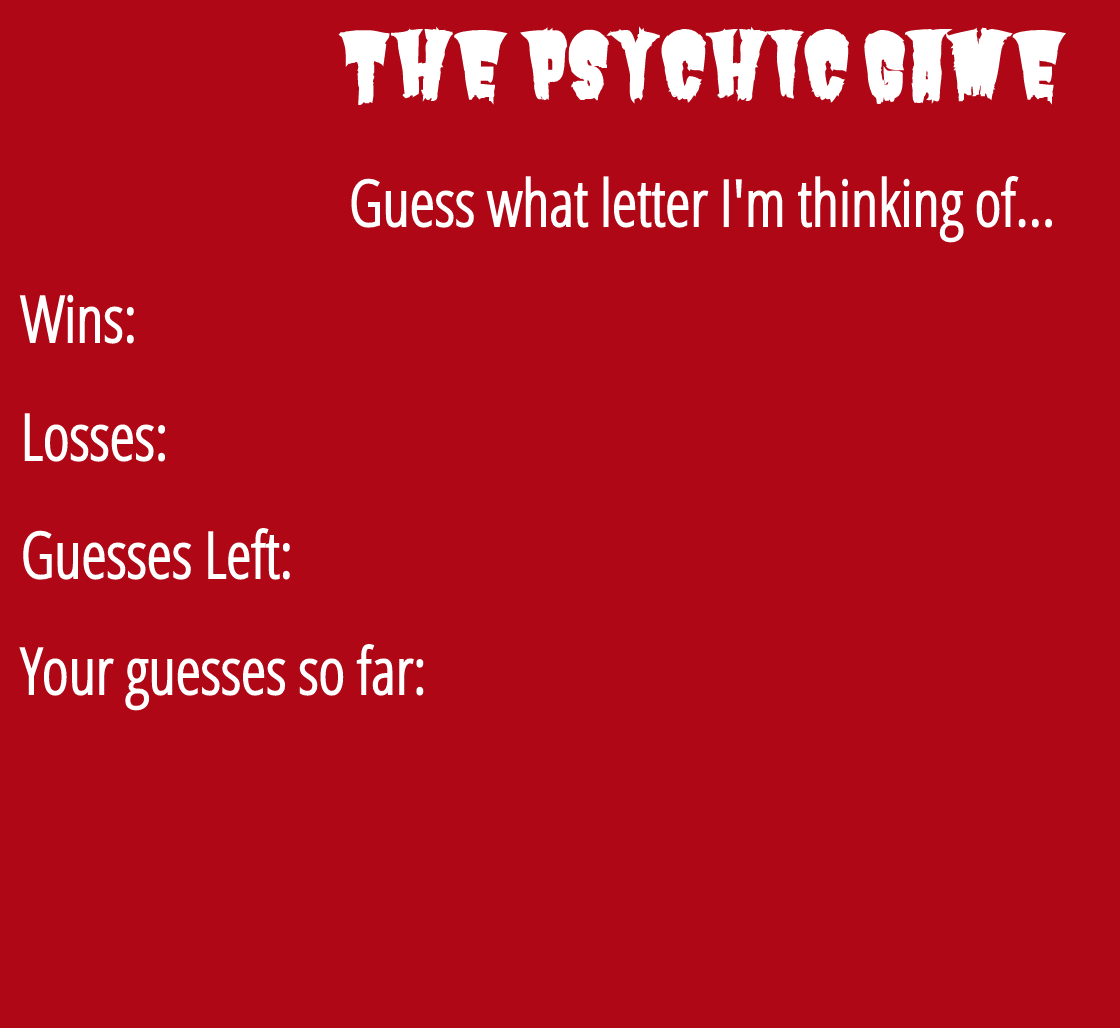
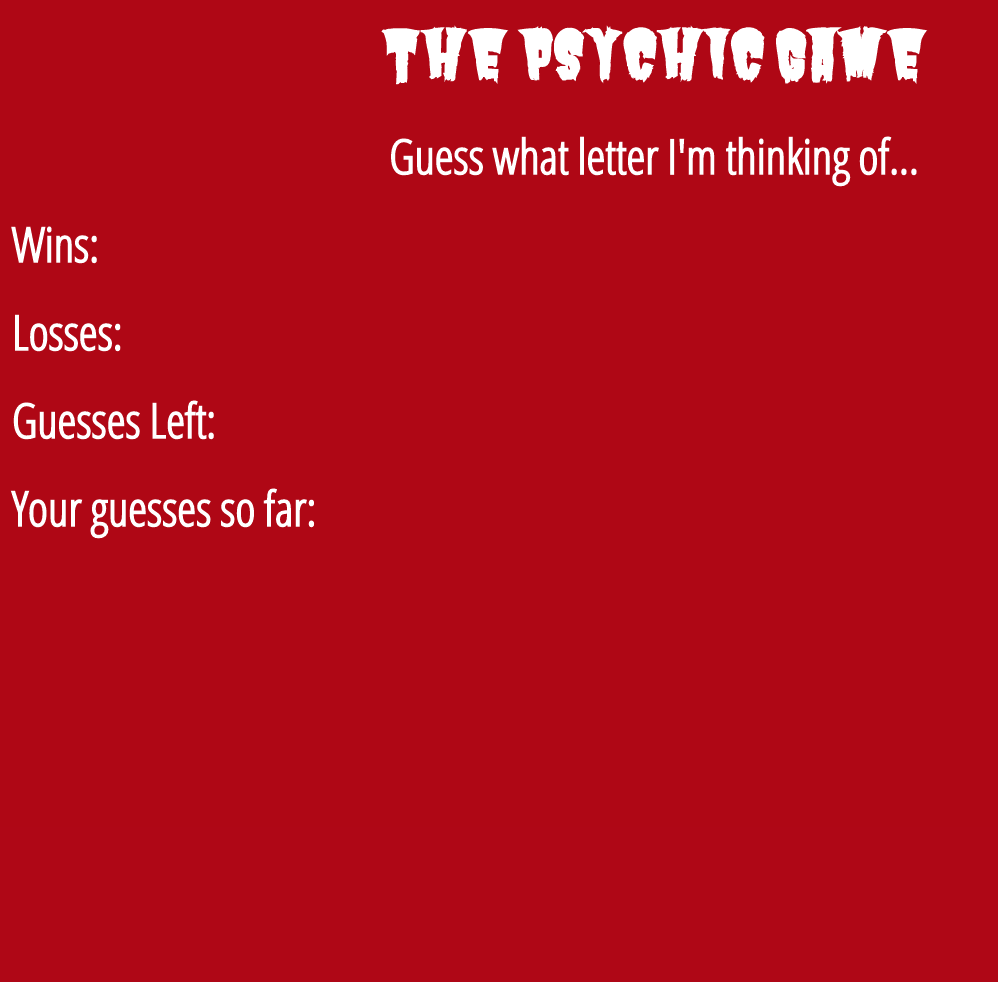
fixed image sizes, added links

diff --git a/Template.html b/Template.html
@@ -135,28 +135,32 @@ body, h1,h2,h3,h4,h5,h6 {font-family: "Montserrat", sans-serif}
 
     <!-- Grid for photos -->
     <div class="w3-row-padding w3-mobile" style="margin:0 -16px">
-      <div class="w3-col s4">
-        <img src="./assets/images/Screen Shot_Crystals.png" class="screen-shots w3-round w3-opacity w3-hover-opacity-off" >
+      <div class="w3-third w3-mobile ">
+        <img src="./assets/images/Screen Shot_Crystals.png" style="width: 315px; height: 315px;" class="screen-shots w3-round w3-opacity w3-hover-opacity-off" >
       </div>
 
-      <div class="w3-col s4">
-        <img src="./assets/images/Screen Shot_Giftastic.png" class="screen-shots w3-round w3-opacity w3-hover-opacity-off" >
+      <div class="w3-third w3-mobile ">
+        <img src="./assets/images/Screen Shot_Giftastic.png" style="width: 315px; height: 315px;" class="screen-shots w3-round w3-opacity w3-hover-opacity-off" >
       </div>
 
-      <div class="w3-col s4">
-        <img src="./assets/images/Screen Shot_Psychic.png" class="screen-shots w3-round w3-opacity w3-hover-opacity-off" >
+      <div class="w3-third w3-mobile ">
+        <img src="./assets/images/Screen Shot_Psychic.png" style="width: 315px; height: 315px;" class="screen-shots w3-round w3-opacity w3-hover-opacity-off" >
       </div>
 
-      <div class="w3-col s4">
-        <img src="./assets/images/Screen Shot_Trivia.png" class="screen-shots w3-round w3-opacity w3-hover-opacity-off" >
+      <div class="w3-third w3-mobile ">
+        <img src="./assets/images/Screen Shot_Trivia.png" style="width: 315px; height: 315px;" class="screen-shots w3-round w3-opacity w3-hover-opacity-off" >
       </div>
 
-      <div class="w3-col s4">
-        <img src="./assets/images/Screen Shot_Train Scheduler.png" class="screen-shots w3-round w3-opacity w3-hover-opacity-off" >
+      <div class="w3-third w3-mobile ">
+        <img src="./assets/images/Screen Shot_Train.png" style="width: 315px; height: 315px;" class="screen-shots w3-round w3-opacity w3-hover-opacity-off" >
+      </div>
+
+      <div class="w3-third w3-mobile ">
+        <img src="./assets/images/Screen Shot_FreeTime.png" style="width: 315px; height: 315px;" class="screen-shots w3-round w3-opacity w3-hover-opacity-off" >
       </div>
       
-      <div class="w3-col s4">
-        <img src="./assets/images/Screen Shot_Hangman.png" class="screen-shots w3-round w3-opacity w3-hover-opacity-off" >
+      <div class="w3-third w3-mobile ">
+        <img src="./assets/images/Screen Shot_Hangman.png" style="width: 315px; height: 315px;" class="screen-shots w3-round w3-opacity w3-hover-opacity-off" >
       </div>
     </div>
   </div>
@@ -174,7 +178,7 @@ body, h1,h2,h3,h4,h5,h6 {font-family: "Montserrat", sans-serif}
     <div class="w3-section">
       <p><i class="fa fa-map-marker fa-fw w3-text-white w3-xxlarge w3-margin-right"></i> Salt Lake City, US</p>
       <p><i class="fa fa-phone fa-fw w3-text-white w3-xxlarge w3-margin-right"></i> Phone: (801) 585-7286</p>
-      <p><i class="fa fa-envelope fa-fw w3-text-white w3-xxlarge w3-margin-right"> </i> Email: chris.lucynksi@gmail.com</p>
+      <p><i class="fa fa-envelope fa-fw w3-text-white w3-xxlarge w3-margin-right"> </i> Email: chris.lucyni@gmail.com</p>
     </div><br>
     <p>Lets get in touch. Send me a message:</p>
 
@@ -194,13 +198,12 @@ body, h1,h2,h3,h4,h5,h6 {font-family: "Montserrat", sans-serif}
   
     <!-- Footer -->
   <footer class="w3-content w3-padding-64 w3-text-grey w3-xlarge">
-    <i class="fa fa-facebook-official w3-hover-opacity"></i>
-    <i class="fa fa-instagram w3-hover-opacity"></i>
-    <i class="fa fa-snapchat w3-hover-opacity"></i>
-    <i class="fa fa-pinterest-p w3-hover-opacity"></i>
-    <i class="fa fa-twitter w3-hover-opacity"></i>
-    <i class="fa fa-linkedin w3-hover-opacity"></i>
-    <p class="w3-medium">Powered by <a href="https://www.w3schools.com/w3css/default.asp" target="_blank" class="w3-hover-text-green">w3.css</a></p>
+    <i href="https://www.facebook.com/chris.lucynski" class="fa fa-facebook-official w3-hover-opacity"></i>
+    <i href="https://www.instagram.com/chrislucynski/" class="fa fa-instagram w3-hover-opacity"></i>
+    <i href="https://www.pinterest.com/chrislucynski/" class="fa fa-pinterest-p w3-hover-opacity"></i>
+    <i href="https://twitter.com/ChrisLucynski" class="fa fa-twitter w3-hover-opacity"></i>
+    <i href="https://www.linkedin.com/in/chrislucynski/" class="fa fa-linkedin w3-hover-opacity"></i>
+    <p href="" class="w3-medium">Powered by <a href="https://www.w3schools.com/w3css/default.asp" target="_blank" class="w3-hover-text-green">w3.css</a></p>
   <!-- End footer -->
   </footer>
 
